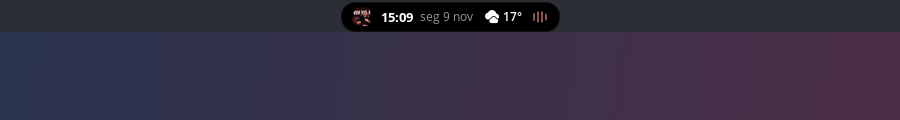
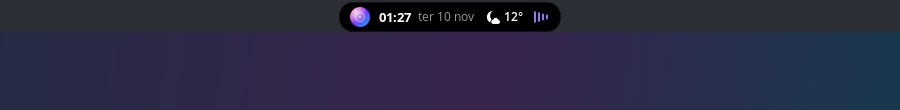
README como página de produto, com imagens novas
Apresentação do produto primeiro (música, clima, agenda, água,
notificações, temas e idiomas, gestos, privacidade, onde funciona) e
"Como usar" por último. Imagens novas de todas as telas, geradas com
dados fictícios (música, agenda e cidade inventadas).

Changed region(s): [[0.7156, 0.2727, 1.0, 1.0], [0.3733, 0.0545, 0.6222, 0.3]]

diff --git a/README.md b/README.md
@@ -1,88 +1,136 @@
+<div align="center">
+
 # linux-island
 
-Uma *dynamic island* para o Linux que fica no centro do painel, no lugar do relógio. Ela mostra **hora, data, clima e o que está tocando**: Spotify, YouTube no navegador, VLC, mpv e outros. Ao passar o mouse, ela se expande com a previsão dos próximos dias e os controles de mídia.
+**A Dynamic Island que faltava no seu Linux.**
 
-![Ilha compacta no painel](docs/compact.png)
+Hora, clima, música, agenda, notificações e lembretes, tudo numa pílula elegante no topo da tela, que se abre quando você precisa e some quando não precisa.
 
-![Ilha expandida](docs/expanded.png)
+![A ilha no painel](docs/compact.png)
 
-Feita para o **COSMIC** (Pop!_OS 24.04). Veja a [compatibilidade](#compatibilidade) com outros ambientes.
+![A ilha aberta](docs/expanded.png)
 
-## Recursos
+</div>
 
-- **Relógio e data** em 24h ou 12h, no idioma escolhido.
-- **Clima atual**: temperatura, condição, máxima, mínima e sensação térmica, via [Open-Meteo](https://open-meteo.com/), sem chave de API.
-- **Previsão de 5 dias** com a chance de chuva.
-- **Qualquer player de música ou vídeo** compatível com MPRIS (Spotify, Firefox, Chrome, VLC, mpv, Rhythmbox…). A ilha mostra o que está tocando agora e, se nada estiver tocando, o último usado. Dá para ignorar players, por exemplo navegadores.
-- **Spotify** e os outros players, via MPRIS/D-Bus:
-  - capa, título, artista e uma barra de progresso clicável e arrastável;
-  - botões de anterior, play/pause e próxima;
-  - **volume**: barra arrastável com botão de mudo, ou rolagem do mouse sobre a ilha, de 5% em 5%;
-  - o equalizador e a barra de progresso usam a cor predominante da capa;
-  - na troca de faixa, a pílula se estica na horizontal mostrando título e artista por alguns segundos e volta ao relógio;
-  - opcional: **playlist** (ou álbum, artista, Músicas Curtidas) e **dispositivo** onde está tocando (celular, caixa de som, TV…). Quando toca em outro aparelho, aparece um ícone dele na pílula.
-- **Notificações na ilha**: quando um app notifica, a pílula se estica por alguns segundos mostrando o ícone do app, o título e o texto. Se chegarem várias, elas entram em fila, e clicar abre o app. Tem "não perturbe", duração ajustável, opção de esconder o texto e lista de apps ignorados.
-- **Lembrete de beber água**: uma página só para isso na ilha expandida.
-  - Anel com o progresso da meta do dia, uma gota por copo, botão **+copo** e desfazer.
-  - Na hora de beber, a pílula mostra **"Hora de beber água"** com a borda azul pulsando, e passar o mouse ou clicar abre direto na página da água, com o botão **Adiar**.
-  - **Aviso sonoro** ao lembrar: dá para escolher o som e o volume, e testar nas configurações.
-  - Notificação do sistema opcional, com **Bebi** e **Adiar**.
-  - O contador zera sozinho na virada do dia.
-- **Agenda do Google**, com contas pessoais e corporativas, somente leitura: uma página com os eventos de hoje e dos próximos dias, e clicar num evento abre o Meet ou o evento no Calendar.
-  - Antes de cada reunião, a pílula mostra **"Reunião · em 8 min"** com a borda violeta pulsando e um aviso sonoro.
-  - Ao abrir a ilha, aparece o cartão da reunião com **Entrar** e **Dispensar**.
-- **Em português, inglês ou espanhol**: a ilha segue o idioma do sistema, ou o que você escolher, incluindo datas, clima e todas as telas.
-- **Animações**: a pílula muda de tamanho e de arredondamento ao expandir, e a capa e o equalizador deslizam pra dentro quando a música começa.
-- **Leve**: Python + GTK3, sem polling de metadados. O Spotify avisa por D-Bus quando algo muda.
+---
 
-### Interação
+## ✨ Por que linux-island?
 
-| Ação | Resultado |
+O topo da tela é o lugar mais valioso do seu desktop, e quase sempre está ocupado só por um relógio. O **linux-island** troca esse relógio por uma ilha viva:
+
+- **Discreta quando você está focado.** Uma pílula com hora, data, clima e o que está tocando.
+- **Completa quando você precisa.** Passe o mouse e ela se abre com previsão, controles de música, sua agenda e seus lembretes.
+- **Atenta a você.** Avisa de reuniões, notificações e da hora de beber água, sem sair de onde você está.
+
+Leve, bonita e feita para o Linux, sem Electron e sem navegador embutido.
+
+---
+
+## 🎵 Sua música, sempre à vista
+
+Spotify, YouTube no navegador, VLC, mpv, Rhythmbox… **o que estiver tocando aparece na ilha**, com capa, título e um equalizador na cor do álbum.
+
+- **Troca de música?** A pílula se estica por alguns segundos mostrando a faixa nova e depois volta ao relógio.
+- **Abriu outro player?** Se ele começou a tocar, a ilha passa para ele sozinha.
+- **Controles completos** na ilha aberta: voltar, play/pause, avançar, barra de progresso e volume.
+- **Volume na rodinha do mouse**: role sobre a ilha para subir ou baixar.
+- **No Spotify**, a ilha ainda mostra **qual playlist** está tocando e **em qual aparelho** (celular, caixa de som, TV…).
+
+## ⛅ Hora, data e clima
+
+- Relógio em 24h ou 12h, com a data por extenso.
+- **Clima agora** e **previsão de 5 dias**, com chance de chuva, para a sua cidade.
+- A cidade é detectada sozinha, ou você escolhe.
+
+## 📅 Sua agenda no topo da tela
+
+![Agenda](docs/agenda.png)
+
+Conecte sua conta do **Google**, pessoal ou corporativa, e veja o seu dia sem abrir nada:
+
+- **Antes de cada reunião**, a pílula avisa com contagem regressiva e um som discreto:
+
+  ![Aviso de reunião](docs/meeting.png)
+
+- **Um clique em "Entrar"** e você está na chamada do Google Meet.
+- Seus compromissos de **hoje**, **amanhã** e dos próximos dias, organizados.
+- Reuniões que você recusou não aparecem.
+
+## 💧 Lembrete de beber água
+
+![Água](docs/water.png)
+
+Defina sua meta e a ilha cuida do resto: lembra na hora certa, com um aviso sonoro e um brilho azul na pílula, e você registra cada copo com um clique. O dia zera sozinho à meia-noite.
+
+## 🔔 Notificações, do jeito da ilha
+
+![Notificação](docs/notification.png)
+
+Quando um app manda uma notificação, a pílula se estica mostrando **quem notificou e o que disse**. Várias de uma vez? Elas entram em fila. Clique e o app abre.
+
+Tem **não perturbe**, opção de **esconder o texto** em apresentações e uma lista de **apps ignorados**.
+
+## 🎨 Do seu jeito
+
+- **Temas prontos**: Clássico, Vidro, Claro, Spotify e Grafite. Ou monte o seu, com cores, transparência e cantos.
+- **Em português, inglês ou espanhol**, seguindo o idioma do sistema ou o que você escolher.
+- Tudo se ajusta numa tela de configurações com o mesmo visual da ilha, e as mudanças aparecem na hora.
+
+---
+
+## 🖱 Gestos
+
+| Você faz | A ilha faz |
 |---|---|
-| Passar o mouse | expande |
-| Clique esquerdo numa área livre | abre ou fecha |
-| Clique do meio | play / pause |
-| Rolar sobre a ilha | volume da música (±5%) |
-| Clicar numa notificação na pílula | abre o app que notificou |
-| Clique direito | menu: Configurações, abrir o player que está tocando, Sair |
-| Clicar ou arrastar na barra | pula para o ponto da música |
-| Arrastar para o lado (com a ilha aberta) | troca de página: música/clima ↔ água ↔ agenda |
-| Dois dedos para o lado no touchpad, ou clicar nos pontinhos | troca de página |
+| Passa o mouse | se abre |
+| Clica numa área livre | abre ou fecha |
+| Arrasta para o lado (com ela aberta) | troca de página: música e clima ↔ água ↔ agenda |
+| Rola a rodinha | muda o volume da música |
+| Clica com o botão do meio | play / pause |
+| Clica numa notificação | abre o app que notificou |
+| Clica com o botão direito | abre o menu: Configurações, abrir o player, Sair |
 
-## Compatibilidade
+## 🔒 Privacidade
 
-Precisa de **Wayland** com suporte a `wlr-layer-shell`, que é o recurso que prende a ilha no topo da tela, por cima das janelas.
+- **Seus dados ficam com você.** O contador de água, as notificações e as configurações nunca saem do seu computador.
+- **Agenda e Spotify são somente leitura.** As chaves de acesso ficam no **chaveiro protegido do sistema**, e "Sair da conta" remove o acesso na hora.
+- Para o **clima**, a ilha consulta o [Open-Meteo](https://open-meteo.com/) e, se você não escolher uma cidade, descobre a sua pelo IP via [ipwho.is](https://ipwho.is/).
 
-| Ambiente | Situação |
+## 🐧 Onde funciona
+
+| Ambiente | |
 |---|---|
-| **COSMIC** | ✅ testado; dá para substituir o relógio do painel |
-| **Hyprland, Sway, river, niri, Wayfire** | 🟡 têm layer-shell e devem funcionar (não testado) |
-| **KDE Plasma (Wayland)** | 🟡 o KWin tem layer-shell e deve funcionar (não testado) |
-| **GNOME** | ❌ o Mutter não suporta layer-shell; precisaria de uma extensão do GNOME Shell |
-| **X11** | ❌ não suportado |
+| **COSMIC** (Pop!_OS 24.04) | ✅ testado; ocupa o lugar do relógio do painel |
+| **Hyprland, Sway, river, niri, Wayfire** | 🟡 deve funcionar |
+| **KDE Plasma** (Wayland) | 🟡 deve funcionar |
+| **GNOME** | ❌ ainda não |
+| **X11** | ❌ não |
 
-Fora do COSMIC, a ilha aparece no topo, centralizada. Esconda o relógio da sua barra (Waybar, painel do Plasma…) ou ajuste a posição com `--margin` ou em *Configurações → Comportamento*. Testou em outro ambiente? Abra uma issue contando como foi.
+Testou em outro ambiente? [Conte para a gente](https://github.com/mrlazarias/linux-island/issues).
 
-## Instalação
+## 📄 Licença
 
-Dependências (Ubuntu, Pop!_OS, Debian):
+[MIT](LICENSE): use, modifique e compartilhe à vontade.
+
+---
+
+## 🚀 Como usar
+
+### 1. Instale
+
+No Ubuntu, Pop!_OS ou Debian:
 
 ```bash
 sudo apt install python3-gi python3-gi-cairo gir1.2-gtk-3.0 gir1.2-gtklayershell-0.1
-```
-
-Depois:
-
-```bash
 git clone https://github.com/mrlazarias/linux-island.git
 cd linux-island
 ./run.sh
 ```
 
 <details>
-<summary>Sem sudo? Use o gtk-layer-shell localmente</summary>
+<summary>Sem permissão de administrador (sudo)?</summary>
 
-O `run.sh` usa automaticamente uma cópia do gtk-layer-shell em `vendor/`, se ela existir:
+O `run.sh` usa sozinho uma cópia local do gtk-layer-shell em `vendor/`, se ela existir:
 
 ```bash
 mkdir -p vendor/debs && cd vendor/debs
@@ -92,63 +140,23 @@ for f in *.deb; do dpkg-deb -x "$f" ../root; done
 
 </details>
 
-## Configurações
+### 2. Abra as configurações
 
-Clique com o botão direito na ilha e escolha **Configurações…**, ou rode `./run.sh --settings`. Se a ilha já estiver aberta, o comando só abre a janela, sem criar uma segunda ilha. Tudo é aplicado na hora e salvo em `~/.config/linux-island/config.json`.
+Clique com o **botão direito** na ilha e escolha **Configurações…**, ou rode `./run.sh --settings`.
 
-| Aba | O que dá para mudar |
+| Aba | O que você ajusta |
 |---|---|
-| **Aparência** | temas prontos (Clássico, Vidro, Claro, Spotify, Grafite), cor de fundo com transparência, cor do texto, cor de destaque fixa ou automática pela capa, arredondamento, borda |
-| **Relógio e clima** | 12h/24h, data na pílula, cidade (vazio = detectar pelo IP), °C ou °F, clima na pílula |
-| **Comportamento** | expandir no hover, atraso do hover, mostrar a música nova na pílula, volume pela rolagem, players ignorados, distância do topo, idioma, iniciar com a sessão |
+| **Aparência** | temas, cores, transparência, cantos e borda |
+| **Relógio e clima** | 12h/24h, data e clima na pílula, cidade, °C ou °F |
+| **Comportamento** | abrir ao passar o mouse, mostrar a música nova, volume pela rodinha, players ignorados, posição, idioma, iniciar com a sessão |
+| **Notificações** | mostrar na pílula, não perturbe, duração, esconder o texto, apps ignorados |
+| **Água** | meta, tamanho do copo, intervalo, horário, adiar, som e notificação |
+| **Agenda** | entrar com Google, dias à frente, quanto antes avisar, som |
+| **Spotify** | conectar a conta para ver playlist e aparelho |
 
-| **Agenda** | entrar/sair da conta Google, mostrar agenda, dias à frente, avisar na pílula, quanto antes, som, volume |
-| **Notificações** | mostrar na pílula, não perturbe, duração, mostrar o texto, apps ignorados |
-| **Água** | ligar/desligar, intervalo, adiar por, meta diária, tamanho do copo, horário de início e fim, aviso sonoro (som, volume, testar), notificação do sistema, zerar hoje |
-| **Spotify** | Client ID do seu app, conectar e desconectar a conta |
+### 3. Coloque a ilha no lugar do relógio (COSMIC)
 
-As opções de linha de comando valem só para aquela execução e não alteram o arquivo:
-
-```bash
-./run.sh --city "Belo Horizonte"   # cidade do clima
-./run.sh --margin 2                # distância do topo da tela, em px
-```
-
-### Playlist e dispositivo (Spotify Web API)
-
-O MPRIS do Spotify não diz qual playlist está tocando nem em qual aparelho. Por isso essa parte usa a Web API, com um app do Spotify **seu**: o projeto não distribui um Client ID.
-
-1. Em [developer.spotify.com/dashboard](https://developer.spotify.com/dashboard), crie um app. A conta dona precisa ser Premium.
-2. Em **Redirect URIs**, adicione `http://127.0.0.1:8974/callback` e marque **Web API**.
-3. Copie o **Client ID**, cole em *Configurações → Spotify* e clique em **Conectar**. O navegador abre para você autorizar.
-
-No modo de desenvolvimento, o Spotify permite até 5 usuários por app, adicionados em *User Management*. Playlists do próprio Spotify (Daily Mix, Descobertas da Semana) aparecem só como "Playlist", porque a API não devolve o nome delas para apps novos.
-
-### Agenda (Google)
-
-Em *clique direito → Configurações → Agenda*, clique em **Entrar com Google** e autorize no navegador. O acesso é somente leitura (`calendar.readonly`) e lê só a agenda principal. Funciona com Gmail e com contas Google Workspace, desde que o administrador da empresa não bloqueie apps de terceiros.
-
-<details>
-<summary>Para quem mantém ou empacota o projeto: as credenciais do app do Google</summary>
-
-O login usa um app OAuth do tipo **App para computador**. A ilha procura as credenciais, nesta ordem:
-
-1. `~/.config/linux-island/google_client_secret.json`: um app próprio, se você quiser usar o seu.
-2. `google_client.json` na pasta do projeto: o app oficial do linux-island, distribuído junto com o código.
-
-Para criar o app:
-
-1. No [Google Cloud Console](https://console.cloud.google.com/), crie um projeto e ative a **Google Calendar API**.
-2. Em **Tela de consentimento OAuth**, escolha o tipo **Externo**, adicione o escopo `calendar.readonly` e **publique o app** ("Em produção"). Em modo de teste, só usuários cadastrados conseguem entrar, e o login expira a cada 7 dias.
-3. Em **Credenciais → Criar credenciais → ID do cliente OAuth → App para computador**, baixe o JSON.
-
-Enquanto o app não passar pela verificação do Google, quem entrar vê o aviso "O Google não verificou este app" e precisa clicar em *Avançado → Acessar*. O limite é de 100 usuários. Em apps de computador, o *client secret* não é sigiloso: o Google trata o cliente como público e a segurança vem do PKCE. Por isso ele pode ir junto com o código.
-
-</details>
-
-### Substituir o relógio do COSMIC
-
-A ilha fica por cima do painel. Para tirar o relógio original de baixo dela, remova o applet de hora do centro do painel. Isso pode ser feito nas configurações de applets do painel ou direto no arquivo:
+A ilha fica por cima do painel. Para tirar o relógio original de baixo dela, remova o applet de hora do centro do painel nas configurações de applets do COSMIC, ou pelo terminal:
 
 ```bash
 P=~/.config/cosmic/com.system76.CosmicPanel.Panel/v1
@@ -156,78 +164,37 @@ cp $P/plugins_center $P/plugins_center.backup   # para voltar depois
 printf 'Some([])' > $P/plugins_center
 ```
 
-### Iniciar com a sessão
+Em outros ambientes, esconda o relógio da sua barra (Waybar, painel do Plasma…) ou ajuste a posição em *Comportamento → Distância do topo*.
 
-Ligue em *Configurações → Comportamento → Iniciar com a sessão*, ou crie o arquivo à mão:
+### 4. Abra junto com o computador
 
-```bash
-cat > ~/.config/autostart/linux-island.desktop <<EOF
-[Desktop Entry]
-Type=Application
-Name=linux-island
-Exec=$PWD/run.sh
-NoDisplay=true
-EOF
-```
+Ligue *Configurações → Comportamento → Iniciar com a sessão*.
 
-## Como funciona
+### 5. Conecte sua agenda
 
-| Arquivo | Papel |
-|---|---|
-| `island.py` | aplicação de instância única e janela layer-shell (camada overlay, ancorada no topo): hover, cliques, menu, animações de tamanho |
-| `config.py` | configurações com padrões e validação; gera o CSS das cores |
-| `settings.py` | janela de configurações |
-| `views.py` | conteúdo dos modos compacto e expandido |
-| `pointer.py` | mouse: hover, clique, arrastar para trocar de página, rolagem e menu |
-| `agenda.py` | agenda: eventos normalizados, aviso de reunião e contagem regressiva (lógica pura) e a busca periódica |
-| `google_calendar.py` | Google Calendar: login OAuth de computador (PKCE) e leitura dos eventos |
-| `secret_store.py` | guarda segredos (o token do Google) no chaveiro do sistema |
-| `agenda_view.py` | página "Agenda" e o aviso de reunião na pílula |
-| `pages.py` | páginas da ilha expandida e prioridade do miolo da pílula |
-| `notifications.py` | observa as notificações do sistema e as mostra na pílula |
-| `i18n.py`, `locale_en.py`, `locale_es.py` | idioma da interface e as traduções |
-| `water.py` | lembrete de água: estado do dia, agenda e notificação |
-| `water_view.py` | página "Hidratação" (anel, gotas, botões) |
-| `settings_pages.py` | abas Água e Spotify das configurações |
-| `widgets.py` | capa arredondada, equalizador e barra de progresso desenhados com cairo |
-| `spotify_web.py` | Spotify Web API: login OAuth PKCE, playlist e dispositivo em reprodução |
-| `players.py` | players MPRIS: descobre todos, escolhe o ativo, faixa, capa, posição, volume e controles |
-| `weather.py` | localização (cidade via geocoding do Open-Meteo ou IP via ipwho.is) e previsão |
-| `style.css` | aparência |
+Em *Configurações → Agenda*, clique em **Entrar com Google** e autorize no navegador.
 
-Algumas particularidades descobertas no caminho:
+<details>
+<summary>Para quem distribui o linux-island: as credenciais do app do Google</summary>
 
-- **Posição da música:** o Spotify não emite mudanças da propriedade `Position`. A posição é interpolada localmente e ressincronizada a cada ~3 s e no sinal `Seeked`.
-- **Tamanho da janela:** janelas GTK3 não encolhem sozinhas. Durante as animações, a janela acompanha o tamanho do conteúdo a cada frame.
-- **Hover:** no Wayland o GTK3 gera eventos `enter`/`leave` "fantasmas" ao cruzar as sub-janelas internas. Por isso o hover consulta onde o ponteiro realmente está.
-- **Lembrete depois da suspensão:** a agenda é recalculada a cada 30 s pelo relógio de parede. Um timeout longo do GLib usa o relógio monotônico, que para durante a suspensão, e o lembrete chegaria horas atrasado.
-- **Notificações de outros apps:** o COSMIC continua sendo o servidor de notificações. A ilha só observa as chamadas `Notify` no barramento, numa conexão em modo monitor. As chamadas observadas precisam ser consumidas no filtro: se seguissem, o GDBus responderia "método desconhecido", e o barramento desconecta monitores que enviam qualquer coisa.
-- **Notificações:** no COSMIC o `GNotification` falha sem avisar, porque escolhe um backend que não existe lá. A notificação fala direto com `org.freedesktop.Notifications`.
-- **Localização:** o GeoClue não responde sem um agente, como no COSMIC. Por isso a cidade vem do IP, ou de `--city`.
+O login usa um app OAuth do tipo **App para computador**. A ilha procura as credenciais em `~/.config/linux-island/google_client_secret.json` (um app próprio) e depois em `google_client.json`, na pasta do projeto (o app oficial).
 
-Para depurar, rode com `ISLAND_DEBUG=1 ./run.sh` e acompanhe os eventos no terminal.
+1. No [Google Cloud Console](https://console.cloud.google.com/), crie um projeto e ative a **Google Calendar API**.
+2. Em **Tela de consentimento OAuth**, escolha **Externo**, adicione o escopo `calendar.readonly` e **publique o app**. Em modo de teste, só usuários cadastrados entram, e o login expira a cada 7 dias.
+3. Em **Credenciais → ID do cliente OAuth → App para computador**, baixe o JSON.
 
-## Privacidade
+Até a verificação do Google, quem entrar vê o aviso "O Google não verificou este app", e o limite é de 100 usuários.
 
-- Para descobrir a cidade, o seu IP é enviado ao [ipwho.is](https://ipwho.is/), a não ser que você use `--city`. O resultado fica em cache por 6 horas em `~/.cache/linux-island/`.
-- As coordenadas são enviadas ao [Open-Meteo](https://open-meteo.com/) para buscar a previsão.
-- Se você conectar a Web API, o login é OAuth PKCE (sem segredo) e pede só permissão de leitura: `user-read-playback-state`, `playlist-read-private` e `playlist-read-collaborative`. O token fica em `~/.config/linux-island/spotify-token.json`, legível só pelo seu usuário. Para revogar, use **Desconectar** ou acesse [spotify.com/account/apps](https://www.spotify.com/account/apps/).
-- Se você entrar com o Google, o login é OAuth com PKCE e só permissão de leitura (`calendar.readonly`). O token fica no chaveiro do sistema (libsecret), ou num arquivo legível só pelo seu usuário quando não houver chaveiro. **Sair da conta** apaga o token e revoga o acesso no Google.
-- As notificações de outros apps só são mostradas na pílula: não ficam guardadas em lugar nenhum e não saem do seu computador.
-- O contador de água fica só no seu computador, em `~/.local/state/linux-island/water.json`.
-- As capas são baixadas do CDN do Spotify e guardadas em `~/.cache/linux-island/art/`.
+</details>
 
-## Roadmap
+### 6. Veja playlist e aparelho do Spotify (opcional)
 
-- [x] Menu de configurações (cores, temas, cidade, unidades, comportamento)
-- [x] Playlist e dispositivo em reprodução (Spotify Web API)
-- [x] Lembrete de beber água (configurável)
-- [x] Agenda do Google com aviso de reunião
-- [x] Outros players MPRIS (Firefox, Chrome, VLC, mpv…)
-- [x] Notificações na ilha
-- [x] Volume (barra, mudo e rolagem do mouse)
-- [x] Idioma configurável (português, inglês e espanhol)
+1. Em [developer.spotify.com/dashboard](https://developer.spotify.com/dashboard), crie um app. A conta precisa ser Premium.
+2. Em **Redirect URIs**, adicione `http://127.0.0.1:8974/callback` e marque **Web API**.
+3. Copie o **Client ID**, cole em *Configurações → Spotify* e clique em **Conectar**.
 
-## Licença
+### Dicas
 
-[MIT](LICENSE)
+- `./run.sh --city "Belo Horizonte"` usa outra cidade só nesta vez.
+- `./run.sh --margin 2` muda a distância do topo só nesta vez.
+- Rodar `./run.sh` de novo com a ilha aberta não cria uma segunda ilha.
